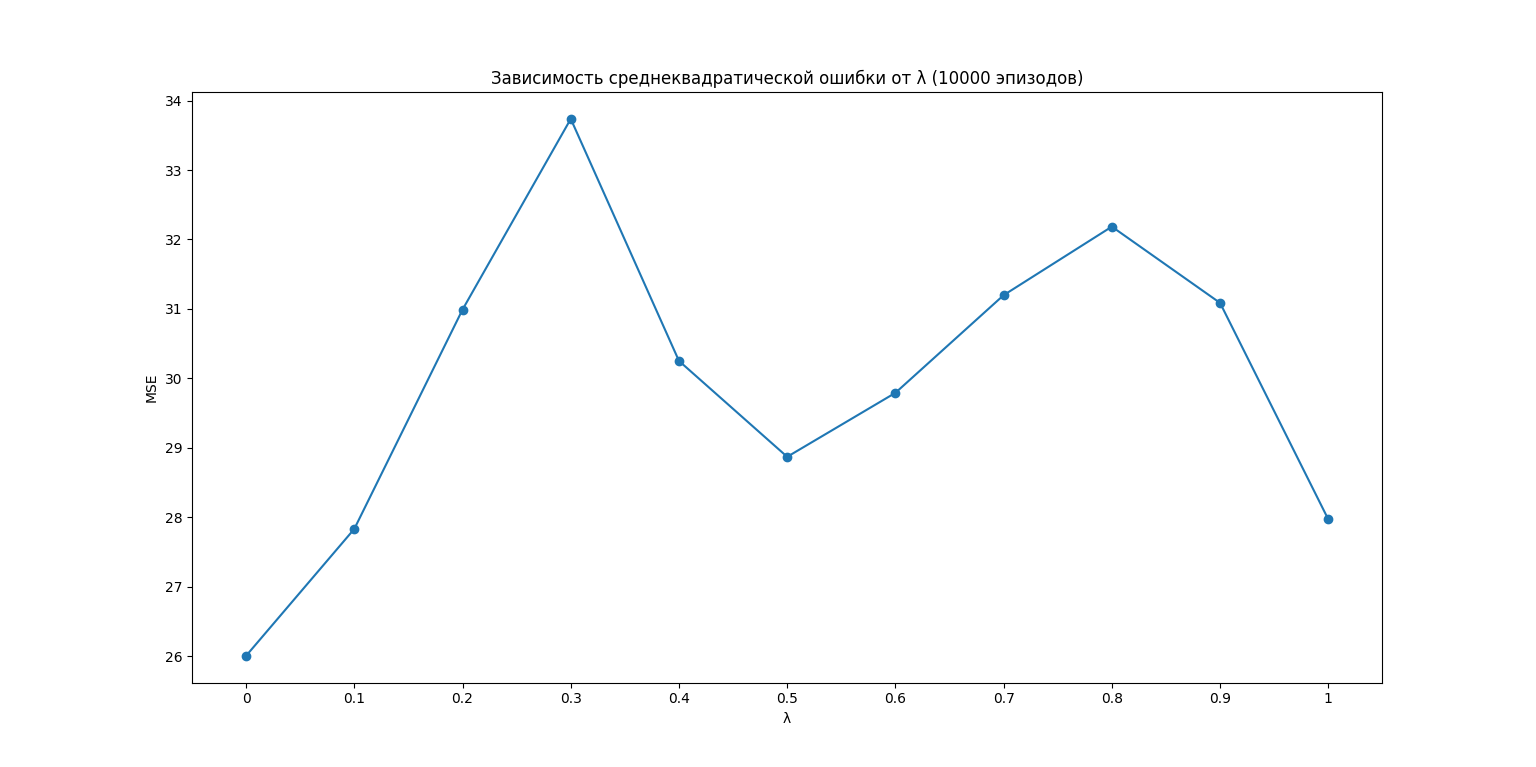
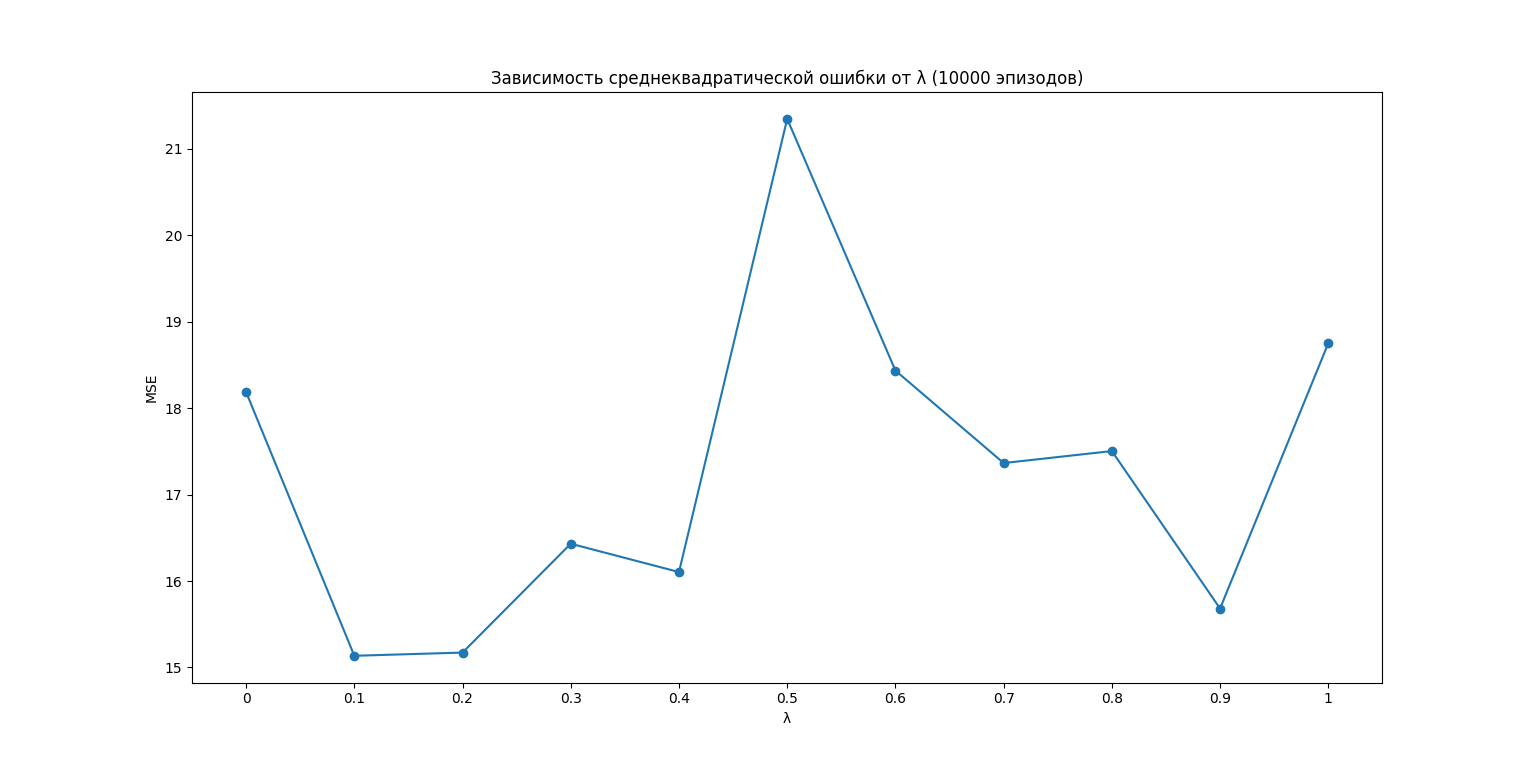
added description of the linear approximator

diff --git a/src/rl/algorithm.hpp b/src/rl/algorithm.hpp
@@ -18,7 +18,7 @@ namespace rl {
 
 struct value_iteration {
 
-    value_iteration(double eps = 0.1e-3)
+    value_iteration(double eps = 0.1e-6)
         : eps_(eps) {}
 
     template<typename Derived, typename Traits, typename Model>
@@ -40,9 +40,20 @@ struct value_iteration {
                 }
 
                 agent.value_func(state) = max_gain;
-                agent.policy()[state] = best_action;
+                //agent.policy()[state] = best_action;
                 delta = std::max(delta, std::abs(v - agent.value_func(state)));
             }
+        }
+
+        // reconstruction policy
+        for(state_t state: agent.states()) {
+            double max_gain = 0.0;
+            action_t best_action;
+            for(action_t action: agent.actions(state)) {
+                double est_gain = model.gain(state, action);
+                write_if<std::less>(max_gain, est_gain, best_action, action);
+            }
+            agent.policy()[state] = best_action;
         }
     }
 

diff --git a/src/examples/blackjack_mini/main.cpp b/src/examples/blackjack_mini/main.cpp
@@ -54,7 +54,7 @@ void linear_sarsa_statistics(blackjack::Env& env, dict_t& value_action) {
     // dependence of the standart error on parameter lambda for 10000 episodes
     // with linear approximation of the state function
     std::ofstream fout("linear_mse_on_lambda.txt");
-    blackjack::LinearAgent linear_agent;
+    blackjack::LinearAgent linear_agent(0.05);
     for(int i = 0; i <= 10; ++i) {
         linear_agent.reinit();
         env.reset();
@@ -79,12 +79,13 @@ void linear_sarsa_statistics(blackjack::Env& env, dict_t& value_action) {
     fout.close();
 }
 
+
 int main() {
     blackjack::Env env;
 
     // calc the true value of the agent state function
     blackjack::Agent mc_agent;
-    rl::first_visit_mc_control(mc_agent, env, 0.05, 500000);
+    rl::first_visit_mc_control(mc_agent, env, 0.05, 500'000);
     converse_value_action(mc_agent.value_action, mc_agent.value_func);
     write_in_file("blackjack_value_function.txt", mc_agent.value_func);
 

diff --git a/src/examples/blackjack_mini/linear_agent.hpp b/src/examples/blackjack_mini/linear_agent.hpp
@@ -124,9 +124,9 @@ public:
 
     template<typename Callable>
     void for_each_impl(Callable&& f) {
-        for(size_t player_points = 1; player_points < 21; ++player_points) {
-            for(size_t dealer_points = 1; dealer_points < 10; ++dealer_points) {
-                state_t state{player_points, dealer_points};
+        for(auto& player_int: player_intervals) {
+            for(auto& dealer_int: dealer_intervals) {
+                state_t state{player_int.first, dealer_int.second};
                 f(state, action_t::hit);
                 f(state, action_t::stick);
             }

diff --git a/src/rl/rl.hpp b/src/rl/rl.hpp
@@ -1,0 +1,16 @@
+#ifndef RL_HPP
+#define RL_HPP
+#pragma once
+
+#include <rl/traits.hpp>
+#include <rl/iagent.hpp>
+#include <rl/ienv.hpp>
+
+#include <rl/algorithm.hpp>
+
+#include <rl/utility.hpp>
+#include <rl/linear_vector.hpp>
+#include <rl/iterable_sequence.hpp>
+
+
+#endif // RL_HPP

diff --git a/src/examples/blackjack_mini/README.md b/src/examples/blackjack_mini/README.md
@@ -1,5 +1,5 @@
 # Карточная игра "Blackjack"
-Применение методов `Monte Carlo`и `Sarsa(λ)` на примере карточной игры "Blackjack" с упрощенными правилами.
+Применение методов `Monte Carlo` и `Sarsa(λ)` на примере карточной игры "Blackjack" с упрощенными правилами.
 
 ## Правила
 
@@ -31,9 +31,58 @@
 
 ### `Sarsa(λ)` (10 000 эпизодов)
 
-+ Кривая обучения (λ = 0.0)
-![learning curve graph](https://github.com/Oginsky/reinforcement_learning/raw/main/data/graphs/blackjack_mini/mse_episode_lambda=0_10000.png)
+<details>
+<summary>Кривая обучения (λ = 0.0)</summary>
+<img alt="learning curve graph" src="https://github.com/Oginsky/reinforcement_learning/raw/main/data/graphs/blackjack_mini/mse_episode_lambda=0_10000.png" alt=""></img>
+</details>
+
+<details>
+<summary>Кривая обучения (λ = 1.0)</summary>
+<img alt="learning curve graph" src="https://github.com/Oginsky/reinforcement_learning/raw/main/data/graphs/blackjack_mini/mse_episode_lambda=1_10000.png" alt=""></img>
+</details>
+
+<details>
+<summary>Зависимость среднеквадратической ошибки от λ</summary>
+<img alt="learning curve graph" src="https://github.com/Oginsky/reinforcement_learning/raw/main/data/graphs/blackjack_mini/mse_on_lambda_10000e.png" alt=""></img>
+</details>
+
 ---
 
-+ Кривая обучения (λ = 1.0)
-![learning curve graph](https://github.com/Oginsky/reinforcement_learning/raw/main/data/graphs/blackjack_mini/mse_episode_lambda=1_10000.png)
+
+## Линейная аппроксимация на основе грубого кодирования (coarse coding)
+
+> В этом разделе приводятся результаты аппроксимации состояния агента. 
+> Используется бинарный вектор признаков 𝜙(𝑠, 𝑎) с 3 ∗ 6 ∗ 2 = 36 признаками. Каждый
+> бинарный признак имеет значение 1, если (𝑠, 𝑎) лежит в кубоиде состояния, соответствующего
+> этому признаку, и действия, соответствующему этому признаку. Кубоиды имеют следующие
+> пересекающиеся интервалы:
+
+> 𝑑𝑒𝑎𝑙𝑒𝑟(𝑠) = {[1,4],[4,7],[7,10]} <br>
+> 𝑝𝑙𝑎𝑦𝑒𝑟(𝑠) = {[1,6],[4,9],[7,12],[10,15],[13,18],[16,21]} <br>
+> 𝑎 = {ℎ𝑖𝑡, 𝑠𝑡𝑖𝑐𝑘} <br>
+
+> функции ценности аппроксимируется: <br>
+> 𝑄(𝑠, 𝑎) = 𝜙(𝑠, 𝑎)𝑇θ
+
+### `Monte Carlo` (100 000 эпизодов)
+
++ График функции состояния:
+![state function graph](https://github.com/Oginsky/reinforcement_learning/raw/main/data/graphs/blackjack_mini/linear_value_function_100k_episodes.png)
+---
+
+### `Sarsa(λ)` (10 000 эпизодов)
+
+<details>
+<summary>Кривая обучения (λ = 0.0)</summary>
+<img alt="learning curve graph" src="https://github.com/Oginsky/reinforcement_learning/raw/main/data/graphs/blackjack_mini/linear_mse_episode_lambda=0_10000.png" alt=""></img>
+</details>
+
+<details>
+<summary>Кривая обучения (λ = 1.0)</summary>
+<img alt="learning curve graph" src="https://github.com/Oginsky/reinforcement_learning/raw/main/data/graphs/blackjack_mini/linear_mse_episode_lambda=1_10000.png" alt=""></img>
+</details>
+
+<details>
+<summary>Зависимость среднеквадратической ошибки от λ</summary>
+<img alt="learning curve graph" src="https://github.com/Oginsky/reinforcement_learning/raw/main/data/graphs/blackjack_mini/linear_mse_on_lambda_10000e.png" alt=""></img>
+</details>

diff --git a/README.md b/README.md
@@ -17,7 +17,7 @@ No third-party dependencies, just include the header files
 | method                            | Category               |
 | --------------------------------- | ---------------------- |
 | `rl::value_iteration`             | Strategy improvement   |
-| `rl::first_visit_mc_prediction`   | strategy evaluation    |
+| `rl::first_visit_mc_prediction`   | Strategy evaluation    |
 | `rl::first_visit_mc_control`      | Strategy improvement   |
 | `rl::sarsa`                       | Strategy improvement   |
 
@@ -109,7 +109,7 @@ action_t get_best_action(state_t state) {
 ## Examples of use
 Examples of practical use of the library can be found in [`src/example`](src/examples):
 
-| Task                | Description                                                                                       | Categoty                          |
+| Task                | Description                                                                                       | Category                          |
 | ------------------- | ------------------------------------------------------------------------------------------------- | --------------------------------- |
 | `blackjack_mini`    | Blackjack" card game with simplified rules                                                        | Based on environment interaction  | 
 | `coin`              | Example 4.3. Reinforcement Learning: An Introduction. Richard S. Sutton and Andrew G. Barto.      | Based on mdp                      |
